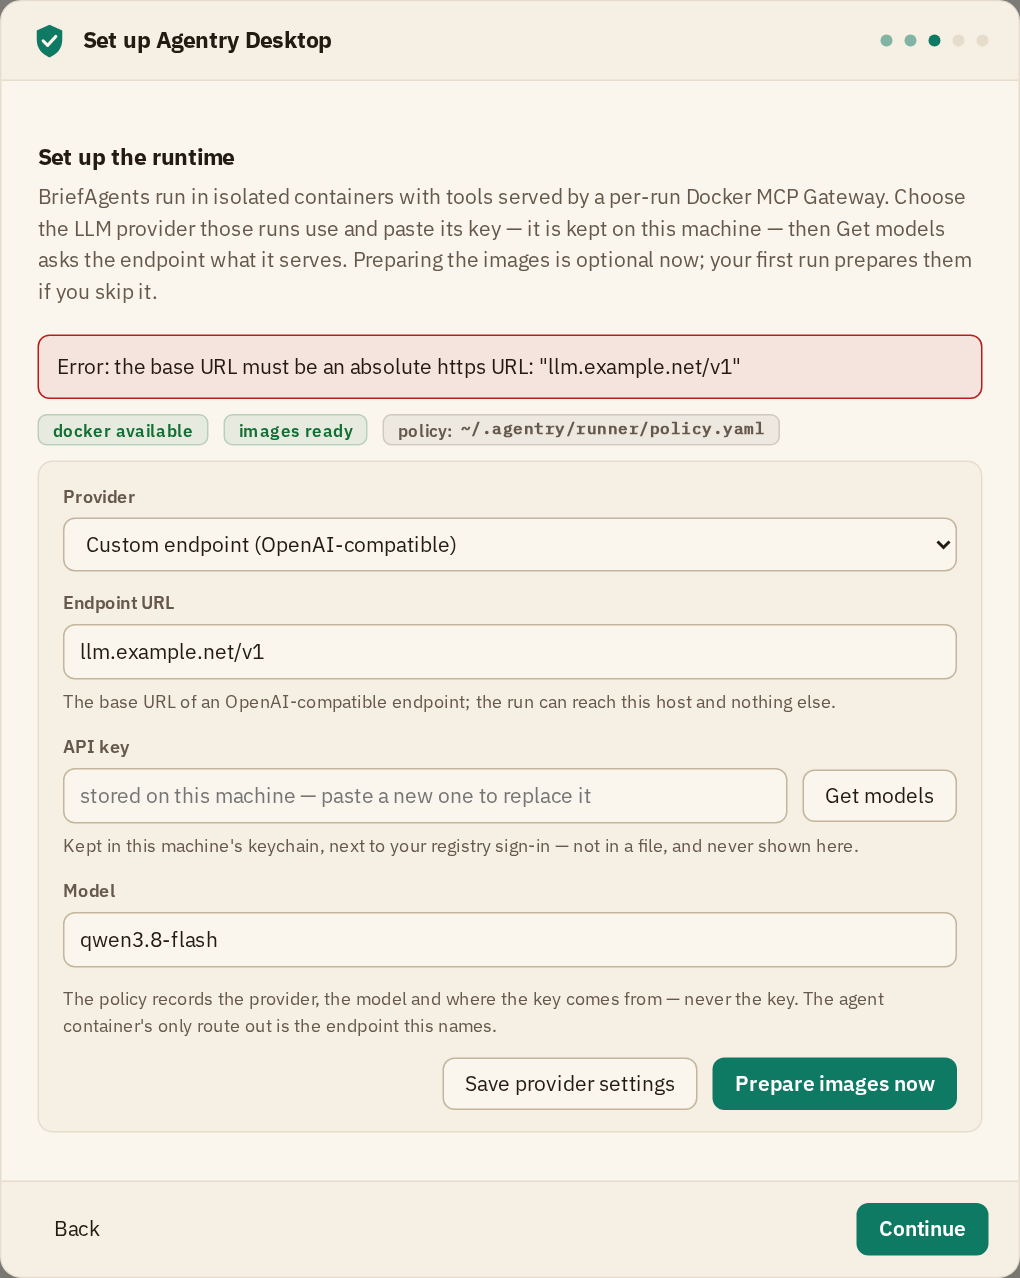
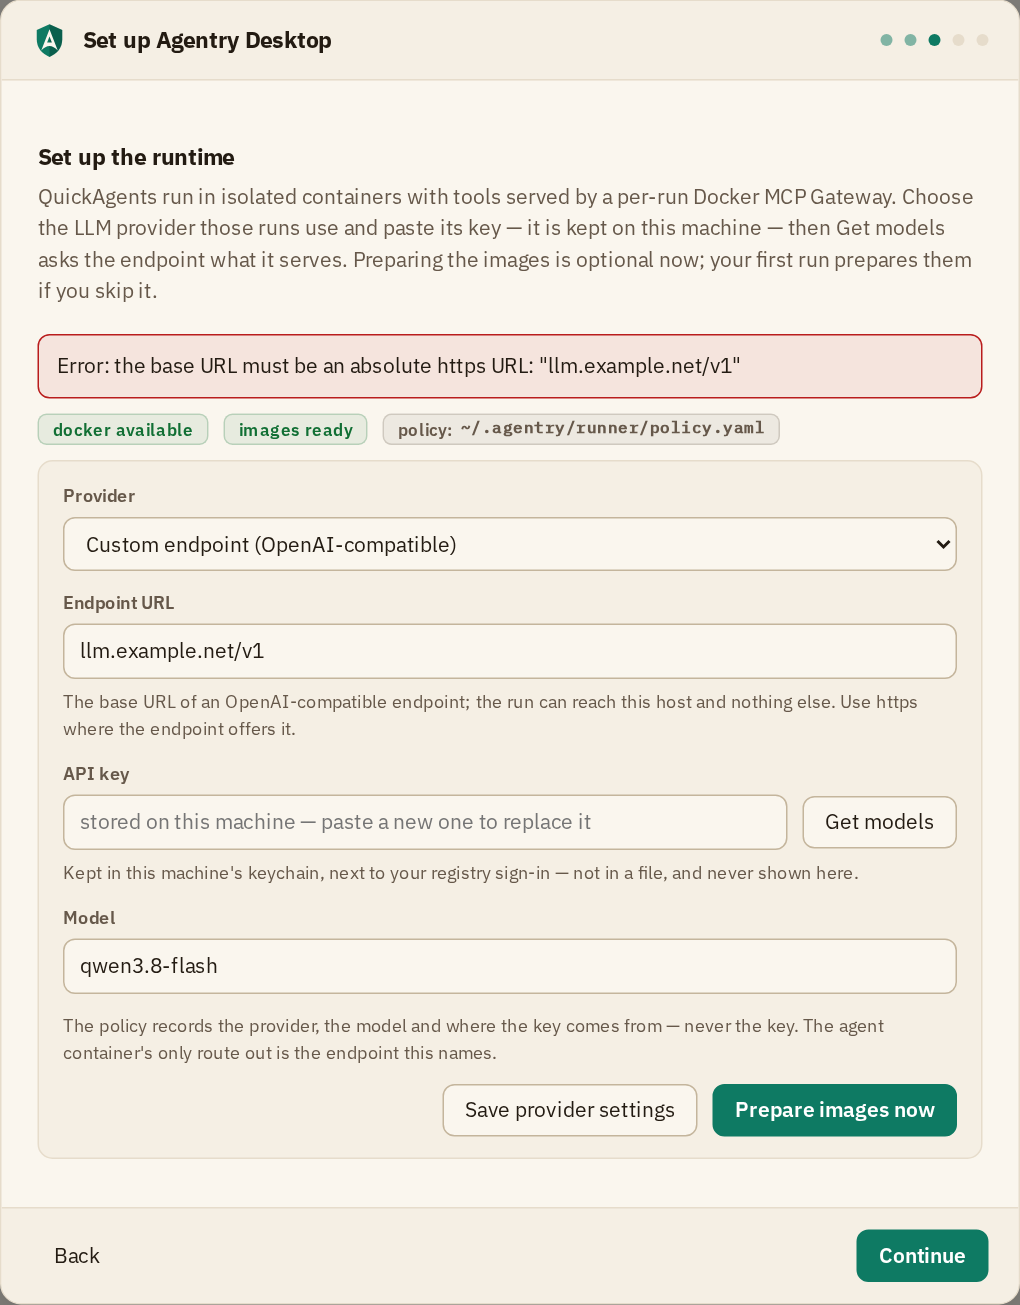
fix(harness): the wizard mock answers EndpointWarning, so the refused-save state shoots again
shots.mjs stopped at wizard-runtime-refused, waiting 30 s for a password
field. The field was never the problem: when the script typed the custom
endpoint's URL, RuntimeSetup asked RunAPI.EndpointWarning (added for
agentry-desktop#317 in e4cd120), which harness/pages.tsx mocks but
harness/wizard.tsx did not. The call threw "EndpointWarning is not a
function" inside an effect, React unmounted the wizard, and the next
locator found nothing. The harness was wrong, not the Wizard: the real
binding exists, and the product is unchanged.

- harness/wizard.tsx: EndpointWarning, the same answer pages.tsx gives.
- harness/shots.mjs: after the refused save the script now checks that
  the refusal is shown and that the key field is empty and says the key
  is stored, so the state's claim is asserted rather than only pictured.
- wizard-runtime-refused-{light,dark}.png re-made.

The full run (152 states, light and dark, 304 shots) now ends with exit 0.

Closes #378

diff --git a/frontend/harness/wizard.tsx b/frontend/harness/wizard.tsx
@@ -112,6 +112,14 @@ g.go = { main: {
     // The key-only call answers with the provider it stored under listed,
     // the policy untouched (desktop#139, #141).
     StoreModelKey: async (provider: string) => ({ ...setup, keysStored: [...setup.keysStored, provider] }),
+    // The CLI's sentence for plain http off this machine, as pages.tsx
+    // answers it (agentry-desktop#317); without it the step's URL field
+    // throws and the wizard unmounts (agentry-desktop#378).
+    EndpointWarning: async (u: string) => {
+      const m = /^http:\/\/([^/:]+)/i.exec(u.trim());
+      if (!m || m[1] === "localhost" || m[1].startsWith("127.")) return "";
+      return `${u.trim()} uses plain http: the API key and the prompts travel unencrypted to ${m[1]}. Use https if the endpoint supports it.`;
+    },
     ListModels: async () => {
       if (modelsFail) throw new Error("custom: list models: 404 Not Found");
       return catalog;
